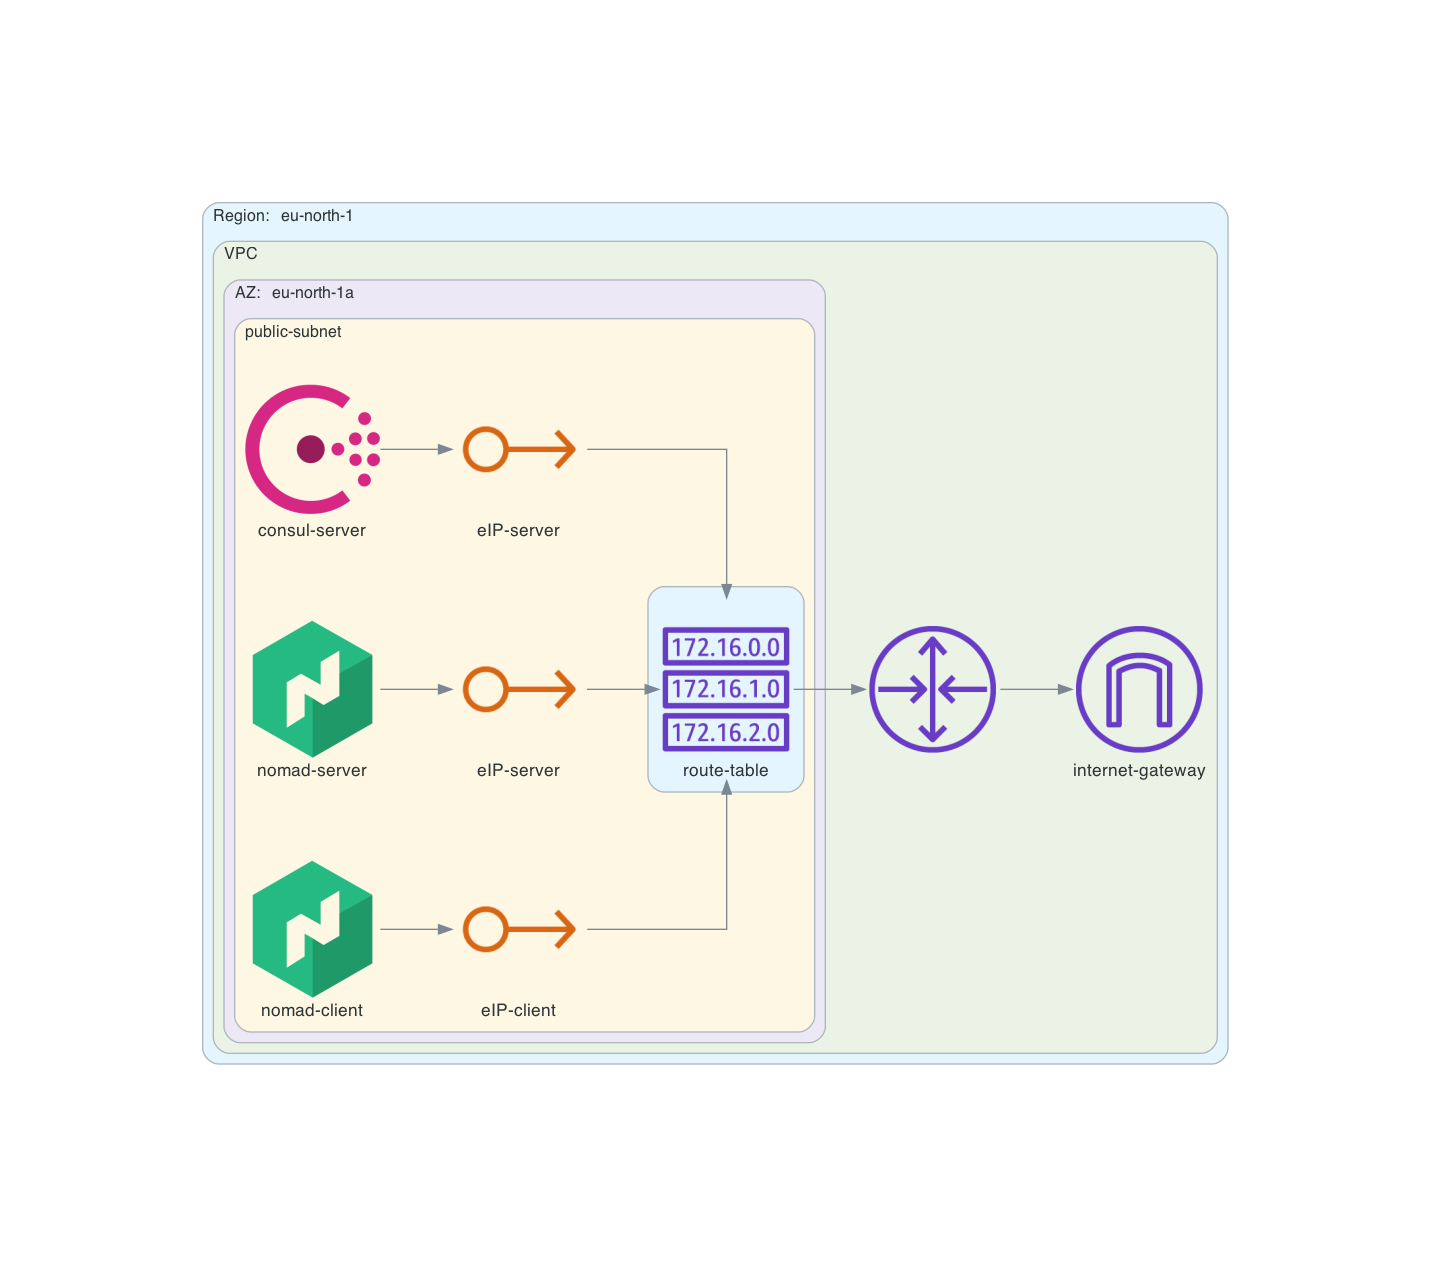
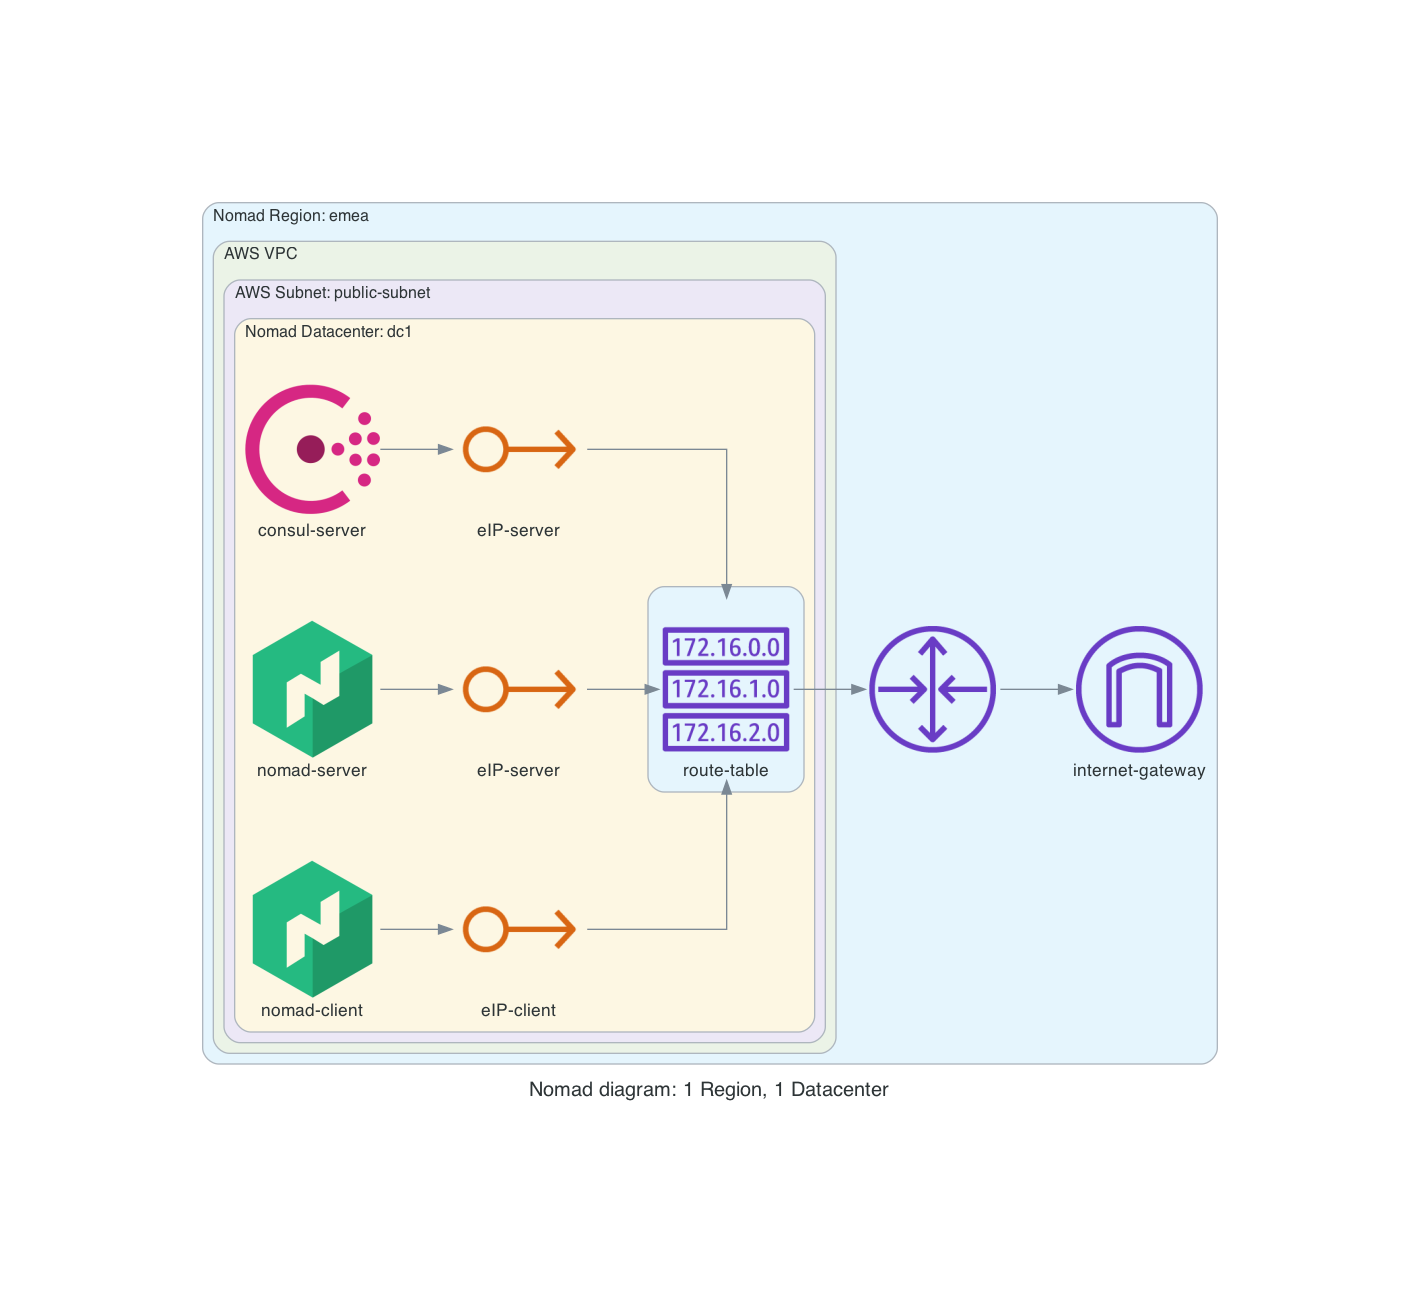
adjust region to reflect Nomad region and datacenter

diff --git a/diagram/diagram.py b/diagram/diagram.py
@@ -7,27 +7,27 @@ from diagrams.onprem.network import Consul
 # Variables
 outformat = "png"
 filename = "nomad-aws-diagram"
+name = "Nomad diagram: 1 Region, 1 Datacenter"
 
+with Diagram(name = name, filename=filename, outformat=outformat, ) as diag:
+    with Cluster("Nomad Region: emea"):
+        with Cluster("AWS VPC"):
+                with Cluster("AWS Subnet: public-subnet"):
+                    with Cluster("Nomad Datacenter: dc1"):
+                        consul_server = Consul("consul-server")
+                        eip_consul_server = EC2ElasticIpAddress('eIP-server')
+                        consul_server >> eip_consul_server
 
-with Diagram(filename=filename, outformat=outformat, ) as diag:
-    with Cluster("Region:   eu-north-1"):
-        with Cluster("VPC"):
-            with Cluster("AZ:   eu-north-1a"):
-                with Cluster("public-subnet"):
-                    consul_server = Consul("consul-server")
-                    eip_consul_server = EC2ElasticIpAddress('eIP-server')
-                    consul_server >> eip_consul_server
+                        nomad_server = Nomad("nomad-server")
+                        eip_nomad_server = EC2ElasticIpAddress('eIP-server')
+                        nomad_server >> eip_nomad_server
 
-                    nomad_server = Nomad("nomad-server")
-                    eip_nomad_server = EC2ElasticIpAddress('eIP-server')
-                    nomad_server >> eip_nomad_server
+                        nomad_client = Nomad("nomad-client")
+                        eip_nomad_client = EC2ElasticIpAddress('eIP-client')
+                        nomad_client >> eip_nomad_client
 
-                    nomad_client = Nomad("nomad-client")
-                    eip_nomad_client = EC2ElasticIpAddress('eIP-client')
-                    nomad_client >> eip_nomad_client
-
-                    with Cluster("", direction='LR'):
-                        route_table = RouteTable("route-table")
-            internet_gatway = InternetGateway("internet-gateway")
-            vpcRouter = VPCRouter()
+                        with Cluster("", direction='LR'):
+                            route_table = RouteTable("route-table")
+        internet_gatway = InternetGateway("internet-gateway")
+        vpcRouter = VPCRouter()
     [ eip_nomad_server, eip_nomad_client, eip_consul_server ] >> route_table >> vpcRouter >> internet_gatway

diff --git a/README.md b/README.md
@@ -16,7 +16,6 @@ cd nomad-aws
 ```
 
 ## Todo
-- [] adjust region to reflect Nomad region and datacenter
 - [] add link to diagram to main README and ./manually/infrastructure
 
 ## Done
@@ -25,4 +24,5 @@ cd nomad-aws
 - [x] create `nomad-aws/manually/infrastructure/README.md`
 - [x] in `README.md` add manual steps to create components described in the diagram
 - [x] test VMs can ping internet and each other
+- [x] adjust region to reflect Nomad region and datacenter
 
